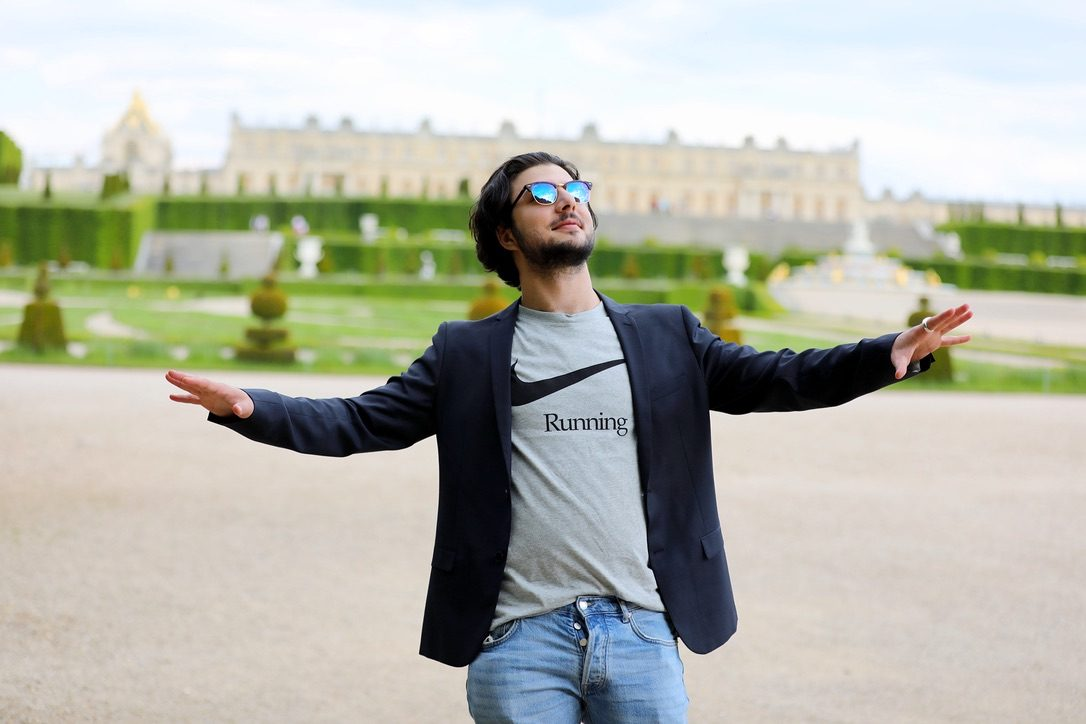
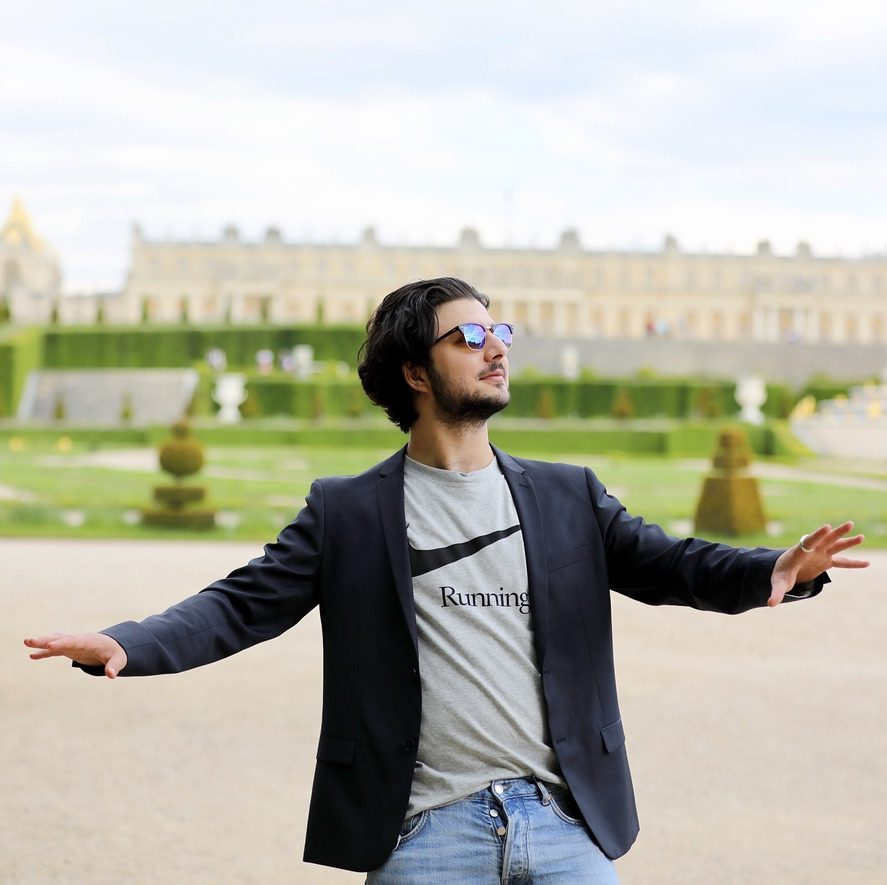
modif: remplacement photo 1 galerie Versailles

diff --git a/livrables/site-web/article-versali.html b/livrables/site-web/article-versali.html
@@ -178,7 +178,7 @@
 <section class="section art-gallery">
   <div class="wrap">
     <div class="art-gallery__grid reveal">
-      <figure class="art-fig" style="margin:0"><div class="ph" style="aspect-ratio:3/2"><img class="slot-fill" src="images/versali-g1.jpg" alt="ვერსალი" style="object-fit:contain;background:#f5f2ee" /></div></figure>
+      <figure class="art-fig" style="margin:0"><div class="ph"><img class="slot-fill" src="images/versali-g1.jpg" alt="ვერსალი" style="object-fit:cover" /></div></figure>
       <figure class="art-fig" style="margin:0"><div class="ph"><img class="slot-fill" src="images/versali-g2.jpg" alt="ვერსალი" style="object-fit:cover" /></div></figure>
       <figure class="art-fig" style="margin:0"><div class="ph"><img class="slot-fill" src="images/versali-hero.jpg" alt="ვერსალი" style="object-fit:cover" /></div></figure>
       <figure class="art-fig" style="margin:0"><div class="ph"><img class="slot-fill" src="images/versali-g4.jpg" alt="ვერსალი" style="object-fit:cover" /></div></figure>